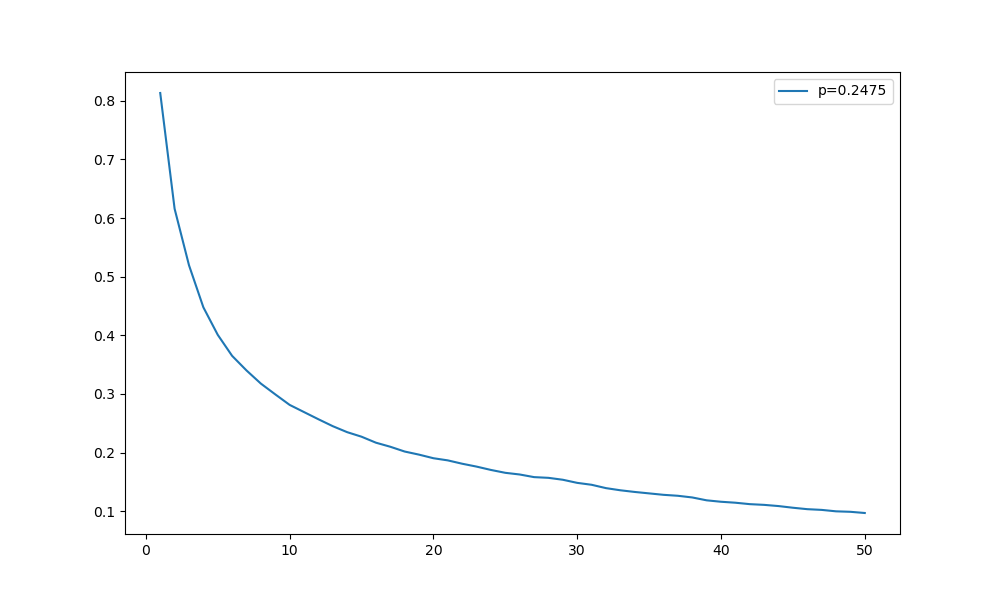
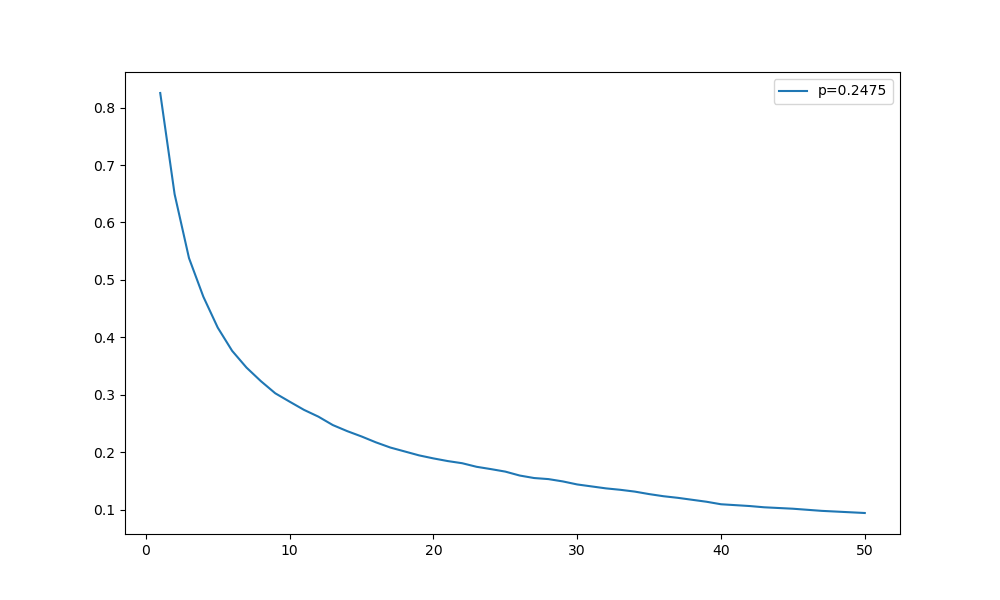
update

diff --git a/temp2.py b/temp2.py
@@ -1,13 +1,67 @@
 import os
 import pickle
+import matplotlib.pyplot as plt
 
-path = os.path.join(os.getcwd(), "test5")
-files = os.listdir(path)
+# Collect all data
 
-done = 0
-for file_ in files:
-    with open(os.path.join(path, file_), "rb") as fp:
-        a = dict(pickle.load(fp))
-        if a["p"] == 0.2475:
-            done += a["trials_done"]
-print(done)
+folders = ["test", "test2", "test3", "test4", "test5"]
+dest_folder_path = os.path.join(os.getcwd(), "all_record")
+rec = {}
+
+for folder in folders:
+    folderpath = os.path.join(os.getcwd(), folder)
+    files = os.listdir(folderpath)
+    for filename in files:
+        filepath = os.path.join(folderpath, filename)
+
+
+        with open(filepath, "rb") as fp:
+            data = dict(pickle.load(fp))
+
+            p = data["p"]
+
+            # find n_max
+            n_max = 1
+            while True: 
+                if n_max+1 not in data.keys():
+                    break
+                n_max += 1
+            if n_max not in rec.keys():
+                rec[n_max] = {}
+            
+            if p not in rec[n_max].keys():
+                rec[n_max][p] = {"trials_done":0}
+                
+                for j in range(1, n_max+1):
+                    rec[n_max][p][j] = 0
+            
+            for k in range(1, n_max+1):
+                rec[n_max][p][k] += data[k]
+            rec[n_max][p]["trials_done"] += data["trials_done"]
+
+
+
+# print completed trials info
+
+for n_max in rec.keys():
+    print(f"n_max = {n_max}")
+    for p in rec[n_max].keys():
+        print(f"p = {p}")
+        print(f"trials done = {rec[n_max][p]['trials_done']}\n")
+    print()
+        
+
+# creating relevent plots
+
+for n_max in rec.keys():
+    plt.figure(figsize = (10,6), dpi = 300)
+    plt.title(f"n_max = {n_max}")
+    p_vals = sorted(list(rec[n_max].keys()))
+    for p in p_vals:
+        trials_done = rec[n_max][p]["trials_done"]
+        density = [rec[n_max][p][i]/trials_done for i in range(1, n_max+1)]
+        plt.plot(range(1, n_max+1), density, label = f"p = {p}")
+    
+    plt.legend()
+    plt.savefig(os.path.join(dest_folder_path, f"n_max = {n_max}.png"))
+    plt.close()

diff --git a/multiprocess_far_point.py b/multiprocess_far_point.py
@@ -74,8 +74,8 @@ def process_far_point(p, n_max, trials, filepath, process_id):
         with open(new_filepath, "wb") as fp:
             pickle.dump(sub_hit_rec, fp)
 
-def compile_all_data(p, n_max, num_processes, sub_filepath, final_filepath, trials):
-    time.sleep(5)
+def compile_all_data(p, n_max, num_processes, sub_filepath, final_filepath, trials, sleep_time= 5):
+    time.sleep(sleep_time)
     while(True):
         hit_rec = { "p":p, "trials_done":0, "files_accessed":0}
         for i in range(1, n_max+1):
@@ -124,6 +124,7 @@ def main(p, n_max, test_folder, mesh_folder):
         process.join()
         print(f"Process {i} finished for p={p}")
         
+    compile_all_data(p, n_max, num_process, sub_filepath, final_filepath, trials, 0)
     print("Finshed")
 
 
